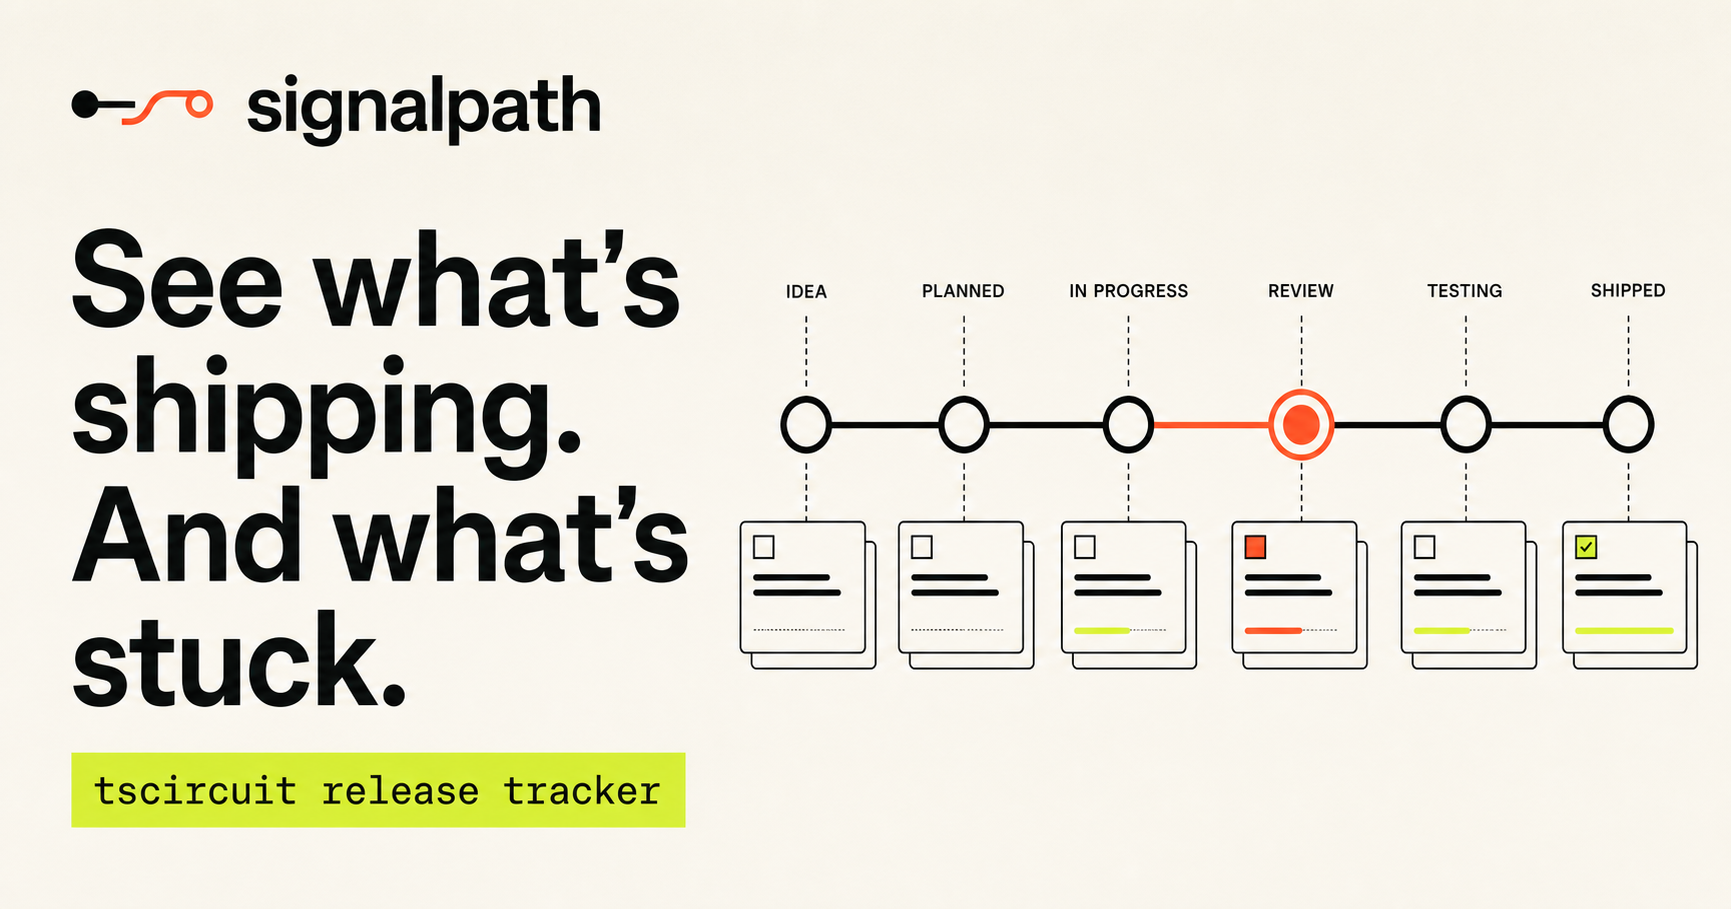
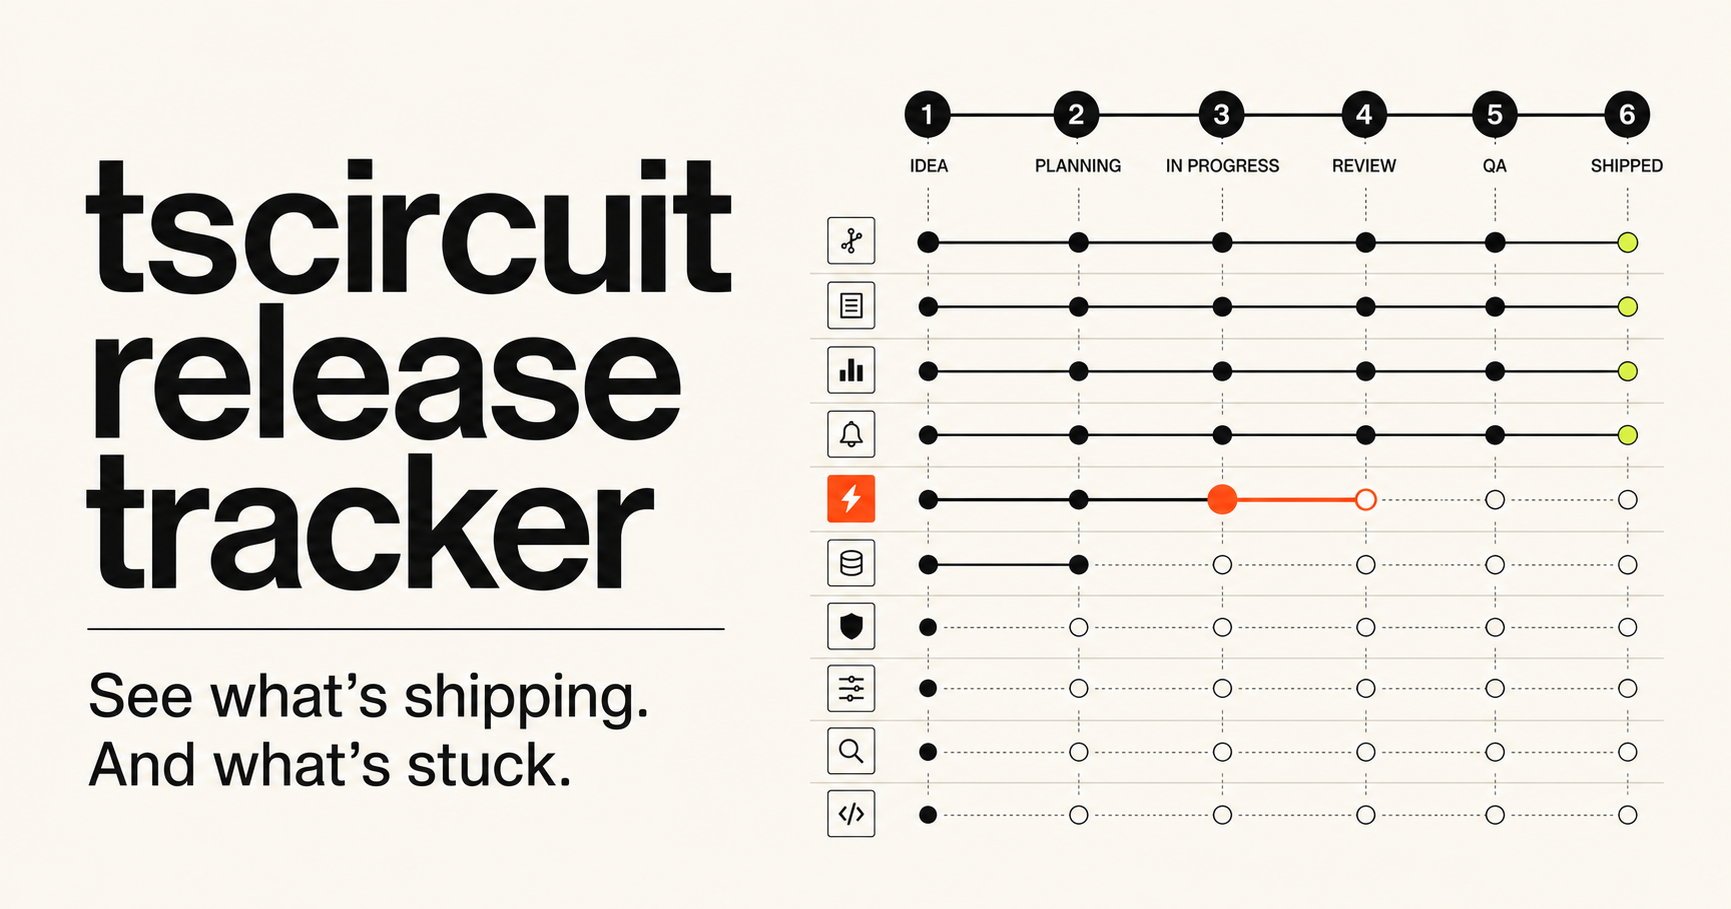
Compact tracker and expand released features

diff --git a/app/globals.css b/app/globals.css
@@ -17,88 +17,87 @@ button, input { font: inherit; }
 a { color: inherit; }
 
 .site-header {
-  height: 72px; padding: 0 4vw; border-bottom: 1px solid var(--line); display: flex; align-items: center; justify-content: space-between; position: sticky; top: 0; z-index: 20; background: color-mix(in srgb, var(--paper) 91%, transparent); backdrop-filter: blur(14px);
+  height: 58px; padding: 0 3vw; border-bottom: 1px solid var(--line); display: flex; align-items: center; justify-content: space-between; position: sticky; top: 0; z-index: 20; background: color-mix(in srgb, var(--paper) 91%, transparent); backdrop-filter: blur(14px);
 }
-.brand { display: inline-flex; align-items: center; gap: 12px; text-decoration: none; font-weight: 760; letter-spacing: -.04em; font-size: 20px; }
-.brand-mark { width: 28px; height: 28px; border: 1px solid var(--ink); display: grid; grid-template-columns: repeat(3, 1fr); gap: 3px; padding: 5px; transform: rotate(-4deg); }
+.brand { display: inline-flex; align-items: center; gap: 9px; text-decoration: none; font-weight: 760; letter-spacing: -.04em; font-size: 16px; }
+.brand-mark { width: 24px; height: 24px; border: 1px solid var(--ink); display: grid; grid-template-columns: repeat(3, 1fr); gap: 3px; padding: 4px; transform: rotate(-4deg); }
 .brand-mark i { display: block; background: var(--ink); border-radius: 50%; }
 .brand-mark i:nth-child(2) { background: var(--signal); }
 .brand-mark.small { width: 22px; height: 22px; padding: 4px; }
-.header-meta { font: 12px var(--font-geist-mono), monospace; text-transform: uppercase; letter-spacing: .04em; display: flex; align-items: center; gap: 9px; }
+.header-meta { font: 10px var(--font-geist-mono), monospace; text-transform: uppercase; letter-spacing: .04em; display: flex; align-items: center; gap: 8px; }
 .live-dot { width: 7px; height: 7px; background: #2fa65a; border-radius: 50%; box-shadow: 0 0 0 4px rgb(47 166 90 / 12%); }
 
-.hero { padding: 84px 4vw 0; }
-.eyebrow, .kicker { font: 11px var(--font-geist-mono), monospace; text-transform: uppercase; letter-spacing: .12em; }
-.eyebrow { display: inline-block; padding: 8px 10px; border: 1px solid var(--ink); background: var(--acid); transform: rotate(-1deg); }
-.hero-grid { display: grid; grid-template-columns: minmax(0, 1.45fr) minmax(280px, .55fr); gap: 8vw; align-items: end; padding: 42px 0 62px; }
-h1 { margin: 0; font-size: clamp(54px, 8vw, 122px); line-height: .84; letter-spacing: -.075em; font-weight: 780; }
+.hero { padding: 48px 3vw 0; }
+.eyebrow, .kicker { font: 10px var(--font-geist-mono), monospace; text-transform: uppercase; letter-spacing: .12em; }
+.eyebrow { display: inline-block; padding: 6px 8px; border: 1px solid var(--ink); background: var(--acid); transform: rotate(-1deg); }
+.hero-grid { display: grid; grid-template-columns: minmax(0, 1.45fr) minmax(280px, .55fr); gap: 6vw; align-items: end; padding: 26px 0 34px; }
+h1 { margin: 0; font-size: clamp(46px, 6.5vw, 96px); line-height: .86; letter-spacing: -.075em; font-weight: 780; }
 h1 em { font-family: Georgia, serif; font-weight: 400; color: var(--signal); }
 .hero-copy { max-width: 420px; padding-bottom: 7px; }
-.hero-copy p { margin: 0 0 28px; font-size: clamp(16px, 1.4vw, 20px); line-height: 1.55; color: #40423e; }
-.hero-copy a { font-size: 13px; font-weight: 700; text-underline-offset: 5px; }
+.hero-copy p { margin: 0 0 18px; font-size: clamp(14px, 1.2vw, 17px); line-height: 1.5; color: #40423e; }
+.hero-copy a { font-size: 11px; font-weight: 700; text-underline-offset: 4px; }
 .stats { display: grid; grid-template-columns: repeat(4, 1fr); border-top: 1px solid var(--ink); border-bottom: 1px solid var(--ink); }
-.stats > div { padding: 24px 20px; border-right: 1px solid var(--line); display: flex; flex-direction: column; gap: 6px; }
+.stats > div { padding: 14px 16px; border-right: 1px solid var(--line); display: flex; flex-direction: row; align-items: baseline; gap: 9px; }
 .stats > div:last-child { border-right: 0; }
-.stats strong { font-size: 28px; letter-spacing: -.05em; }
-.stats span { color: var(--muted); font-size: 12px; }
+.stats strong { font-size: 21px; letter-spacing: -.05em; }
+.stats span { color: var(--muted); font-size: 10px; }
 
-.controls { padding: 42px 4vw; display: flex; justify-content: space-between; align-items: center; gap: 24px; }
+.controls { padding: 24px 3vw; display: flex; justify-content: space-between; align-items: center; gap: 20px; }
 .segmented { display: flex; gap: 6px; padding: 5px; border: 1px solid var(--line); border-radius: 99px; }
-.segmented button { border: 0; background: transparent; border-radius: 99px; padding: 9px 16px; font-size: 12px; cursor: pointer; }
+.segmented button { border: 0; background: transparent; border-radius: 99px; padding: 7px 13px; font-size: 11px; cursor: pointer; }
 .segmented button.active { background: var(--ink); color: white; }
-.search { width: min(360px, 45vw); border-bottom: 1px solid var(--ink); display: flex; gap: 8px; padding: 10px 2px; }
-.search input { border: 0; outline: 0; background: transparent; width: 100%; font-size: 13px; }
+.search { width: min(320px, 45vw); border-bottom: 1px solid var(--ink); display: flex; gap: 8px; padding: 8px 2px; }
+.search input { border: 0; outline: 0; background: transparent; width: 100%; font-size: 11px; }
 
-.pipeline-section { padding: 30px 4vw 100px; }
-.section-heading { display: grid; grid-template-columns: 1fr 1fr; align-items: end; gap: 40px; margin-bottom: 44px; }
-.section-heading h2 { margin: 8px 0 0; font-size: clamp(40px, 5vw, 72px); letter-spacing: -.065em; line-height: .95; }
-.section-heading p { margin: 0 0 5px auto; max-width: 520px; color: var(--muted); line-height: 1.6; font-size: 14px; }
+.pipeline-section { padding: 18px 3vw 60px; }
+.section-heading { display: grid; grid-template-columns: 1fr 1fr; align-items: end; gap: 32px; margin-bottom: 25px; }
+.section-heading h2 { margin: 6px 0 0; font-size: clamp(34px, 4vw, 56px); letter-spacing: -.065em; line-height: .95; }
+.section-heading p { margin: 0 0 3px auto; max-width: 520px; color: var(--muted); line-height: 1.5; font-size: 12px; }
 .pipeline-map { display: grid; grid-template-columns: repeat(6, 1fr); border: 1px solid var(--ink); margin-bottom: 18px; overflow: hidden; }
-.stage-node { min-height: 108px; padding: 16px; display: flex; flex-direction: column; justify-content: space-between; border-right: 1px solid var(--ink); position: relative; background: #f7f5ee; }
+.stage-node { min-height: 74px; padding: 11px 12px; display: flex; flex-direction: column; justify-content: space-between; border-right: 1px solid var(--ink); position: relative; background: #f7f5ee; }
 .stage-node:last-child { border: 0; }
 .stage-node span { font: 10px var(--font-geist-mono), monospace; color: var(--muted); }
 .stage-node strong { font-size: 14px; }
 .stage-node i { position: absolute; right: -6px; top: 49%; z-index: 2; width: 11px; height: 11px; background: var(--ink); transform: rotate(45deg); }
 .released-node { background: var(--acid); }
 
-.moving-list { display: grid; gap: 10px; }
+.moving-list { display: grid; gap: 7px; }
 .moving-row { display: grid; grid-template-columns: minmax(240px, .8fr) minmax(340px, 1.5fr) minmax(155px, .45fr); border: 1px solid var(--line); background: #f8f6ef; }
-.progress-rail { display: grid; grid-template-columns: repeat(6, 1fr); gap: 3px; align-content: center; padding: 28px; border-right: 1px solid var(--line); }
-.progress-rail span { height: 8px; background: #ddd9ce; }
+.progress-rail { display: grid; grid-template-columns: repeat(6, 1fr); gap: 3px; align-content: center; padding: 18px; border-right: 1px solid var(--line); }
+.progress-rail span { height: 6px; background: #ddd9ce; }
 .progress-rail span.passed { background: var(--signal); }
-.feature-card { padding: 24px 26px; }
-.card-topline { display: flex; justify-content: space-between; gap: 12px; margin-bottom: 15px; }
+.feature-card { padding: 16px 18px; }
+.card-topline { display: flex; justify-content: space-between; gap: 12px; margin-bottom: 10px; }
 .repo { font: 10px var(--font-geist-mono), monospace; text-transform: uppercase; letter-spacing: .08em; padding: 4px 7px; border: 1px solid currentColor; }
 .pr-link { font: 11px var(--font-geist-mono), monospace; color: var(--muted); text-underline-offset: 4px; }
-.feature-card h3 { margin: 0; font-size: clamp(17px, 1.6vw, 23px); line-height: 1.15; letter-spacing: -.035em; max-width: 720px; }
-.note { margin: 12px 0 0; font-size: 12px; line-height: 1.5; color: var(--muted); }
-.meta { margin-top: 18px; display: flex; justify-content: space-between; gap: 14px; color: var(--muted); font: 10px var(--font-geist-mono), monospace; }
-.stage-status { border-left: 1px solid var(--line); padding: 24px; display: flex; flex-direction: column; justify-content: center; }
+.feature-card h3 { margin: 0; font-size: clamp(15px, 1.35vw, 19px); line-height: 1.15; letter-spacing: -.035em; max-width: 720px; }
+.note { margin: 8px 0 0; font-size: 10px; line-height: 1.45; color: var(--muted); }
+.meta { margin-top: 11px; display: flex; justify-content: space-between; gap: 14px; color: var(--muted); font: 9px var(--font-geist-mono), monospace; }
+.stage-status { border-left: 1px solid var(--line); padding: 16px; display: flex; flex-direction: column; justify-content: center; }
 .stage-status span { font: 10px var(--font-geist-mono), monospace; color: var(--muted); text-transform: uppercase; }
-.stage-status strong { font-size: 22px; margin: 6px 0 14px; color: var(--signal); }
+.stage-status strong { font-size: 17px; margin: 4px 0 8px; color: var(--signal); }
 .stage-status small { color: var(--muted); font-size: 10px; }
 .empty { padding: 36px; border: 1px dashed var(--line); color: var(--muted); text-align: center; }
 
-.released-section { background: var(--ink); color: #f5f2e9; padding: 90px 4vw 110px; }
+.released-section { background: var(--ink); color: #f5f2e9; padding: 58px 3vw 70px; }
 .section-heading.inverse p, .section-heading.inverse .kicker { color: #aaa9a3; }
-.release-grid { display: grid; grid-template-columns: repeat(2, 1fr); border-top: 1px solid #444541; }
-.release-item { display: grid; grid-template-columns: 64px 1fr; border-bottom: 1px solid #444541; min-height: 200px; }
-.release-item:nth-child(odd) { border-right: 1px solid #444541; }
-.release-number { padding: 28px 18px; font: 11px var(--font-geist-mono), monospace; color: var(--acid); border-right: 1px solid #444541; }
-.feature-card.compact { padding: 28px; display: flex; flex-direction: column; }
-.feature-card.compact .repo { color: var(--acid); }
-.feature-card.compact .pr-link, .feature-card.compact .meta { color: #a5a69f; }
-.feature-card.compact h3 { font-size: clamp(20px, 2vw, 30px); }
-.feature-card.compact .meta { margin-top: auto; padding-top: 24px; }
+.release-table { border-top: 1px solid #444541; }
+.release-row { min-height: 54px; display: grid; grid-template-columns: 40px minmax(125px, .7fr) minmax(300px, 3fr) 58px minmax(120px, .8fr) minmax(120px, .9fr) 18px; gap: 14px; align-items: center; border-bottom: 1px solid #383936; color: inherit; text-decoration: none; transition: background .15s ease; }
+.release-row:hover { background: #232421; }
+.release-number { font: 9px var(--font-geist-mono), monospace; color: var(--acid); }
+.release-repo, .release-pr, .release-author, .release-tag { font: 9px var(--font-geist-mono), monospace; color: #a5a69f; }
+.release-repo { color: var(--acid); text-transform: uppercase; letter-spacing: .04em; }
+.release-row strong { font-size: 13px; letter-spacing: -.02em; }
+.release-arrow { color: var(--signal); }
 .empty.dark { grid-column: 1 / -1; border-color: #444541; color: #aaa9a3; }
 
-footer { padding: 38px 4vw; display: grid; grid-template-columns: .6fr 1.4fr .6fr; gap: 40px; align-items: center; border-top: 1px solid var(--line); }
+footer { padding: 26px 3vw; display: grid; grid-template-columns: .8fr 1.4fr .6fr; gap: 30px; align-items: center; border-top: 1px solid var(--line); }
 footer > div { display: flex; align-items: center; gap: 10px; }
 footer p { margin: 0; font-size: 11px; line-height: 1.5; color: var(--muted); }
 footer a { justify-self: end; font-size: 11px; font-weight: 700; }
 
 @media (max-width: 900px) {
-  .hero { padding-top: 60px; }
+  .hero { padding-top: 42px; }
   .hero-grid { grid-template-columns: 1fr; gap: 38px; }
   .stats { grid-template-columns: repeat(2, 1fr); }
   .stats > div:nth-child(2) { border-right: 0; }
@@ -108,8 +107,8 @@ footer a { justify-self: end; font-size: 11px; font-weight: 700; }
   .progress-rail { grid-column: 1; grid-row: 1; }
   .feature-card { grid-column: 2; grid-row: 1 / span 2; }
   .stage-status { grid-column: 1; border-left: 0; border-top: 1px solid var(--line); }
-  .release-grid { grid-template-columns: 1fr; }
-  .release-item:nth-child(odd) { border-right: 0; }
+  .release-row { grid-template-columns: 34px minmax(105px, .7fr) minmax(260px, 2fr) 50px minmax(110px, .8fr) 18px; }
+  .release-author { display: none; }
   footer { grid-template-columns: 1fr; }
   footer a { justify-self: start; }
 }
@@ -118,7 +117,7 @@ footer a { justify-self: end; font-size: 11px; font-weight: 700; }
   .site-header { padding: 0 20px; }
   .header-meta { font-size: 9px; }
   .hero, .pipeline-section, .released-section { padding-left: 20px; padding-right: 20px; }
-  h1 { font-size: 54px; }
+  h1 { font-size: 46px; }
   .controls { padding: 28px 20px; align-items: stretch; flex-direction: column; }
   .segmented { width: 100%; }
   .segmented button { flex: 1; padding-left: 8px; padding-right: 8px; }
@@ -127,7 +126,12 @@ footer a { justify-self: end; font-size: 11px; font-weight: 700; }
   .moving-row { display: block; }
   .progress-rail, .stage-status, .feature-card { border: 0; border-bottom: 1px solid var(--line); }
   .stage-status { border-bottom: 0; }
-  .release-item { grid-template-columns: 42px 1fr; }
-  .release-number { padding-left: 12px; padding-right: 12px; }
+  .release-row { grid-template-columns: 30px 1fr 42px 16px; gap: 8px; padding: 10px 0; }
+  .release-repo { grid-column: 2; grid-row: 1; }
+  .release-row strong { grid-column: 2; grid-row: 2; font-size: 12px; }
+  .release-number { grid-column: 1; grid-row: 1 / span 2; }
+  .release-pr { grid-column: 3; grid-row: 1 / span 2; }
+  .release-arrow { grid-column: 4; grid-row: 1 / span 2; }
+  .release-author, .release-tag { display: none; }
   footer { padding: 32px 20px; }
 }

diff --git a/app/page.tsx b/app/page.tsx
@@ -25,6 +25,18 @@ const stages: { id: Stage; short: string; label: string }[] = [
   { id: "released", short: "06", label: "Released" },
 ];
 
+const shipped = (title: string, repo: string, pr: number, author: string, merged: string, release: string): Feature => ({
+  title,
+  repo,
+  pr,
+  url: `https://github.com/tscircuit/${repo}/pull/${pr}`,
+  author,
+  merged,
+  stage: "released",
+  note: "Published by its package or propagated to a downstream release surface.",
+  release,
+});
+
 const features: Feature[] = [
   {
     title: "Add crystal maxTraceLength prop",
@@ -132,6 +144,33 @@ const features: Feature[] = [
     note: "Merged on the web release surface; available without another package hop.",
     release: "tscircuit.com",
   },
+  shipped("Fix mirrored custom pad polygons on rotated footprints", "kicad-to-circuit-json", 167, "ShiboSoftwareDev", "Jul 11 · 3:18 PM PT", "package release"),
+  shipped("Fix browser 3D PNG rendering by removing Node-only PoppyGL exports", "poppygl", 32, "rushabhcodes", "Jul 11 · 2:59 PM PT", "poppygl v0.0.25"),
+  shipped("Use browser-safe PoppyGL rendering for STEP PNG snapshots", "circuit-json-to-step", 119, "rushabhcodes", "Jul 11 · 1:26 PM PT", "package release"),
+  shipped("Use sharp-free Manifold 2D package", "copper-pour-solver", 59, "seveibar", "Jul 11 · 1:26 PM PT", "solver v0.0.37"),
+  shipped("Fix KiCad connectivity conversion and validation", "kicad-to-circuit-json", 163, "ShiboSoftwareDev", "Jul 10 · 2:19 PM PT", "package release"),
+  shipped("Support net on gr_arc PCB graphics", "kicadts", 58, "mohan-bee", "Jul 11 · 4:30 AM PT", "package release"),
+  shipped("Add a solver to merge global and component topologies in Pipeline 7", "tscircuit-autorouter", 1592, "ShiboSoftwareDev", "Jul 11 · 10:30 AM PT", "autorouter v0.0.655+"),
+  shipped("Add differentialPairs and DifferentialPair interface", "tscircuit-autorouter", 1583, "seveibar", "Jul 10 · 12:17 PM PT", "autorouter release"),
+  shipped("Support standalone simulation graph SVG URLs", "svg.tscircuit.com", 1763, "ShiboSoftwareDev", "Jul 10 · 7:44 PM PT", "svg.tscircuit.com"),
+  shipped("Support default autorouter", "core", 2635, "seveibar", "Jul 10 · 11:26 AM PT", "tscircuit v0.1.1639+"),
+  shipped("Add MOSFET connections support", "props", 720, "seveibar", "Jul 11 · 9:55 AM PT", "props release"),
+  shipped("Fix workspace path normalization for nested files", "monaco-code-editor", 28, "rushabhcodes", "Jul 9 · 7:58 PM PT", "editor release"),
+  shipped("Fix package exports for component-library consumption", "monaco-code-editor", 23, "rushabhcodes", "Jul 9 · 5:55 PM PT", "editor release"),
+  shipped("Fix invisible hover and selected states in file sidebar", "monaco-code-editor", 24, "mohan-bee", "Jul 9 · 5:24 PM PT", "editor release"),
+  shipped("Fix browser CDN fallback for GLTF loading", "circuit-json-to-3d-png", 13, "rushabhcodes", "Jul 9 · 10:57 PM PT", "package release"),
+  shipped("Fix RP2350 footprint conversion from KiCad", "kicad-to-circuit-json", 162, "seveibar", "Jul 9 · 9:52 PM PT", "package release"),
+  shipped("Mirror bottom-layer PCB silkscreen text", "circuit-json-to-kicad", 373, "techmannih", "Jul 9 · 8:36 PM PT", "tscircuit v0.1.1640"),
+  shipped("Give each pushed trace its own corridor near shared net labels", "schematic-trace-solver", 649, "abdalraof-albarbar", "Jul 9 · 1:24 PM PT", "solver release"),
+  shipped("Snap power and ground labels to a pin-aligned corner", "schematic-trace-solver", 654, "MustafaMulla29", "Jul 10 · 3:51 AM PT", "solver release"),
+  shipped("Add ratsnest-free solver visualizations for bug snapshots", "schematic-trace-solver", 646, "AnasSarkiz", "Jul 10 · 5:17 AM PT", "solver release"),
+  shipped("Lay out decoupling capacitor groups as rail rows", "matchpack", 155, "MustafaMulla29", "Jul 10 · 10:02 AM PT", "matchpack release"),
+  shipped("Add autorouter debug messages", "cli", 3606, "seveibar", "Jul 9 · 5:24 PM PT", "CLI v0.1.1639+"),
+  shipped("Externalize check-shorts from the CLI bundle", "cli", 3616, "Abse2001", "Jul 10 · 6:18 AM PT", "CLI v0.1.1642"),
+  shipped("Add a name to autorouting phases", "props", 719, "seveibar", "Jul 9 · 11:03 PM PT", "props release"),
+  shipped("Allow SymbolProp to accept circuit-json element arrays", "props", 718, "techmannih", "Jul 9 · 8:15 PM PT", "props release"),
+  shipped("Support legacy KiCad 5 standalone footprints", "kicad-to-circuit-json", 160, "techmannih", "Jul 9 · 8:24 AM PT", "package release"),
+  shipped("Subtract edge cutouts from board outlines", "circuit-json-to-kicad", 365, "mohan-bee", "Jul 9 · 1:29 AM PT", "package release"),
 ];
 
 const stageIndex = (stage: Stage) => stages.findIndex((item) => item.id === stage);
@@ -174,9 +213,9 @@ export default function Home() {
   return (
     <main>
       <header className="site-header">
-        <a className="brand" href="#top" aria-label="Signalpath home">
+        <a className="brand" href="#top" aria-label="tscircuit release tracker home">
           <span className="brand-mark"><i /><i /><i /></span>
-          <span>signalpath</span>
+          <span>tscircuit release tracker</span>
         </a>
         <div className="header-meta">
           <span className="live-dot" />
@@ -185,7 +224,7 @@ export default function Home() {
       </header>
 
       <section className="hero" id="top">
-        <div className="eyebrow">tscircuit release intelligence</div>
+        <div className="eyebrow">feature delivery status</div>
         <div className="hero-grid">
           <h1>See what’s shipping.<br /><em>And what’s stuck.</em></h1>
           <div className="hero-copy">
@@ -259,12 +298,17 @@ export default function Home() {
             <div><span className="kicker">Now available</span><h2>Recently released</h2></div>
             <p>Feature work that completed the dependency chain or landed directly on a release surface.</p>
           </div>
-          <div className="release-grid">
+          <div className="release-table" role="list">
             {released.map((feature, index) => (
-              <div className="release-item" key={`${feature.repo}-${feature.pr}`}>
+              <a className="release-row" href={feature.url} target="_blank" rel="noreferrer" key={`${feature.repo}-${feature.pr}`} role="listitem">
                 <span className="release-number">{String(index + 1).padStart(2, "0")}</span>
-                <FeatureCard feature={feature} compact />
-              </div>
+                <span className="release-repo">{feature.repo}</span>
+                <strong>{feature.title}</strong>
+                <span className="release-pr">#{feature.pr}</span>
+                <span className="release-author">@{feature.author}</span>
+                <span className="release-tag">{feature.release}</span>
+                <span className="release-arrow">↗</span>
+              </a>
             ))}
             {released.length === 0 && <div className="empty dark">No released features match this search.</div>}
           </div>
@@ -272,7 +316,7 @@ export default function Home() {
       )}
 
       <footer>
-        <div><span className="brand-mark small"><i /><i /><i /></span><strong>signalpath</strong></div>
+        <div><span className="brand-mark small"><i /><i /><i /></span><strong>tscircuit release tracker</strong></div>
         <p>Release position is inferred from merged feature PRs and automated dependency-update PRs. Source snapshot: GitHub, Jul 11, 2026.</p>
         <a href="https://github.com/tscircuit" target="_blank" rel="noreferrer">tscircuit on GitHub ↗</a>
       </footer>

diff --git a/app/layout.tsx b/app/layout.tsx
@@ -14,17 +14,17 @@ export async function generateMetadata(): Promise<Metadata> {
 
   return {
     metadataBase,
-    title: "Signalpath — tscircuit Release Tracker",
+    title: "tscircuit release tracker",
     description: "Track feature PRs through the tscircuit package release pipeline.",
     icons: { icon: "/favicon.svg", shortcut: "/favicon.svg" },
     openGraph: {
-      title: "Signalpath — tscircuit Release Tracker",
+      title: "tscircuit release tracker",
       description: "See what’s shipping—and what’s stuck—in the tscircuit release pipeline.",
-      images: [{ url: "/og.png", width: 1200, height: 630, alt: "Signalpath tscircuit release tracker" }],
+      images: [{ url: "/og.png", width: 1200, height: 630, alt: "tscircuit release tracker" }],
     },
     twitter: {
       card: "summary_large_image",
-      title: "Signalpath — tscircuit Release Tracker",
+      title: "tscircuit release tracker",
       description: "See what’s shipping—and what’s stuck—in the tscircuit release pipeline.",
       images: ["/og.png"],
     },